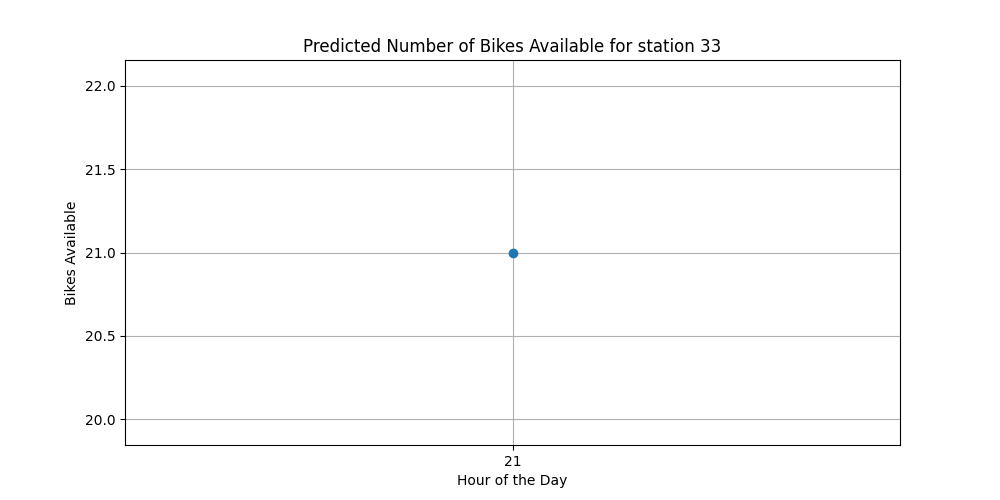
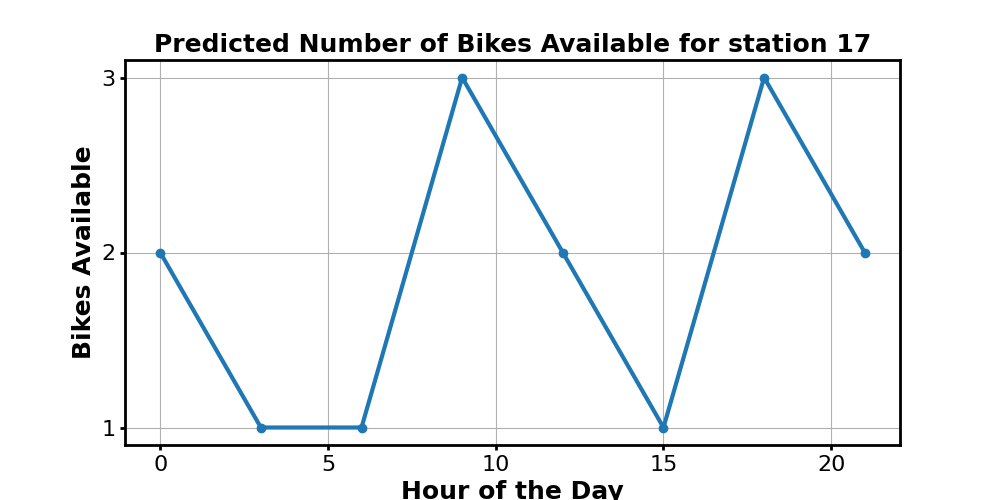
Fixed plots and styled them/Removed unneccesary code

diff --git a/flask_bikes/templates/base.html b/flask_bikes/templates/base.html
@@ -7,7 +7,7 @@
     <!--<script src="https://polyfill.io/v3/polyfill.min.js?features=default"></script> DONT KNOW WHAT THIS IS BUT IT SLOWS EVERYTHING DOWN--> 
     <link rel="stylesheet" href="{{ url_for('static', filename='css/style.css') }}">
     {% block extra_css %}{% endblock %}
-    <script type="module" src="{{ url_for('static', filename='js/index.js') }}"></script>
+    <!--<script type="module" src="{{ url_for('static', filename='js/index.js') }}"></script> NOT SURE IF NECESSARY?-->
     <script src="https://use.fontawesome.com/releases/v6.2.0/js/all.js"></script>
     <script src="../static/js/forecast.js" type="text/javascript"></script>
 

diff --git a/flask_bikes/static/js/sidebar.js b/flask_bikes/static/js/sidebar.js
@@ -260,10 +260,10 @@ document.addEventListener('DOMContentLoaded', function() {
         }
     });
 
-    stationsSelect.addEventListener('change', function() {
-        const selectedDate = dateInput.value ? new Date(dateInput.value) : null;
-        handleButtonVisibility(selectedDate);  //when station changes to make sure to handle the buttons
-    });
+    //stationsSelect.addEventListener('change', function() {
+    //    const selectedDate = dateInput.value ? new Date(dateInput.value) : null;
+    //    handleButtonVisibility(selectedDate);  //when station changes to make sure to handle the buttons
+    //});
     
     
 });

diff --git a/flask_bikes/static/js/index.js b/flask_bikes/static/js/index.js
@@ -27,8 +27,8 @@ async function initMap() {
         console.error('Error fetching data:', error);
     }
 }
-let slideIndex = 0;
-showSlides();
+//let slideIndex = 0;
+//showSlides();
 
 
 initMap();

diff --git a/flask_bikes/app.py b/flask_bikes/app.py
@@ -25,26 +25,40 @@ model_dir = os.path.abspath(os.path.join(os.path.dirname(os.path.realpath(__file
 
 app = Flask(__name__)
 
-def fetch_weather_data(date):
+def fetch_weather_data(date,mode=0):
     city = "Dublin,IE"
     api_key = "dd05f29b3c673dec7f4a9df4f8cce8fd" 
     units = "metric"
-    forecast_url = f"http://api.openweathermap.org/data/2.5/forecast?q={city}&appid={api_key}&units={units}"
+    if mode==0:
+        forecast_url = f"http://api.openweathermap.org/data/2.5/forecast?q={city}&appid={api_key}&units={units}"
+    else:
+        forecast_url = f"http://api.openweathermap.org/data/2.5/weather?q={city}&appid={api_key}&units={units}"
     response = requests.get(forecast_url)
     if response.status_code == 200:
         forecast_data = response.json()
         weather_data = []
-        for entry in forecast_data['list']:
-            forecast_time = datetime.fromtimestamp(entry['dt'], tz=timezone.utc)
-            if forecast_time.date() == datetime.strptime(date, "%Y-%m-%d").date():
-                weather_data.append({
-                    'hour': forecast_time.hour,
-                    'temperature': entry['main']['temp'],
-                    'wind_speed': entry['wind']['speed'],
-                    'rainfall': entry.get('rain', {}).get('3h', 0) / 3 if 'rain' in entry else 0,
-                    'weather_description': entry['weather'][0]['main'].lower()
-                })
-        return weather_data
+        if mode==0:
+            for entry in forecast_data['list']:
+                forecast_time = datetime.fromtimestamp(entry['dt'], tz=timezone.utc)
+                if forecast_time.date() == datetime.strptime(date, "%Y-%m-%d").date():
+                    weather_data.append({
+                        'hour': forecast_time.hour,
+                        'temperature': entry['main']['temp'],
+                        'wind_speed': entry['wind']['speed'],
+                        'rainfall': entry.get('rain', {}).get('3h', 0) / 3 if 'rain' in entry else 0,
+                        'weather_description': entry['weather'][0]['description'].lower()
+                    })
+            return weather_data
+        else:
+            forecast_time = datetime.fromtimestamp(forecast_data['dt'], tz=timezone.utc)
+            weather_data.append({
+                'hour': forecast_time.hour,
+                'temperature': forecast_data['main']['temp'],
+                'wind_speed': forecast_data['wind']['speed'],
+                'rainfall': forecast_data.get('rain', {}).get('3h', 0) / 3 if 'rain' in forecast_data else 0,
+                'weather_description': forecast_data['weather'][0]['description'].lower()
+            })
+            return weather_data
     return None
 
 def map_weather_conditions(description):
@@ -68,14 +82,27 @@ def map_weather_conditions(description):
 
 def generate_plot(predictions, hours, model_type, station):
     plt.figure(figsize=(10, 5))
-    plt.plot(hours, np.around(predictions), marker='o')
-    plt.title(f'Predicted Number of {model_type.capitalize()} Available for station {station}')
-    plt.xlabel('Hour of the Day')
-    plt.ylabel(f'{model_type.capitalize()} Available')
+    y=np.around(predictions).astype(int)
+    plt.plot(hours, y, marker='o', linewidth=3)
+
+    force_yaxis_int = range(int(np.floor(min(y))), int(np.ceil(max(y))+1))
+    plt.yticks(force_yaxis_int)
+
+    plt.gca().spines['top'].set_linewidth(2)
+    plt.gca().spines['right'].set_linewidth(2)
+    plt.gca().spines['bottom'].set_linewidth(2)
+    plt.gca().spines['left'].set_linewidth(2) 
+
+    plt.tick_params(axis='both', which='major', labelsize=16, width=2)
+    
+    plt.title(f'Predicted Number of {model_type.capitalize()} Available for station {station}', fontsize=18, weight='bold')
+
+    plt.xlabel('Hour of the Day', fontsize=18, weight='bold')
+    plt.ylabel(f'{model_type.capitalize()} Available', fontsize=18, weight='bold')
     plt.grid(True)
-    plt.xticks(hours)
+    plt.minorticks_off() #Remove minor ticks
     plot_filename = f'static/images/{model_type}_predictions_plot.png'
-    plt.savefig(plot_filename)
+    plt.savefig(plot_filename, transparent=True)
     plt.close()
     return url_for('static', filename=os.path.basename(plot_filename))
 
@@ -147,8 +174,10 @@ def predictive_plot(station_number,mode):
     if not date:
         return jsonify({'error': 'Date not provided'}), 400
 
-    weather_data = fetch_weather_data(date)
+    weather_data = fetch_weather_data(date,mode)
+    print(weather_data)
     if not weather_data:
+        print("NO WEATHER")
         return jsonify({'error': 'Weather data not available for this date'}), 404
 
     # Loading the models for input station
